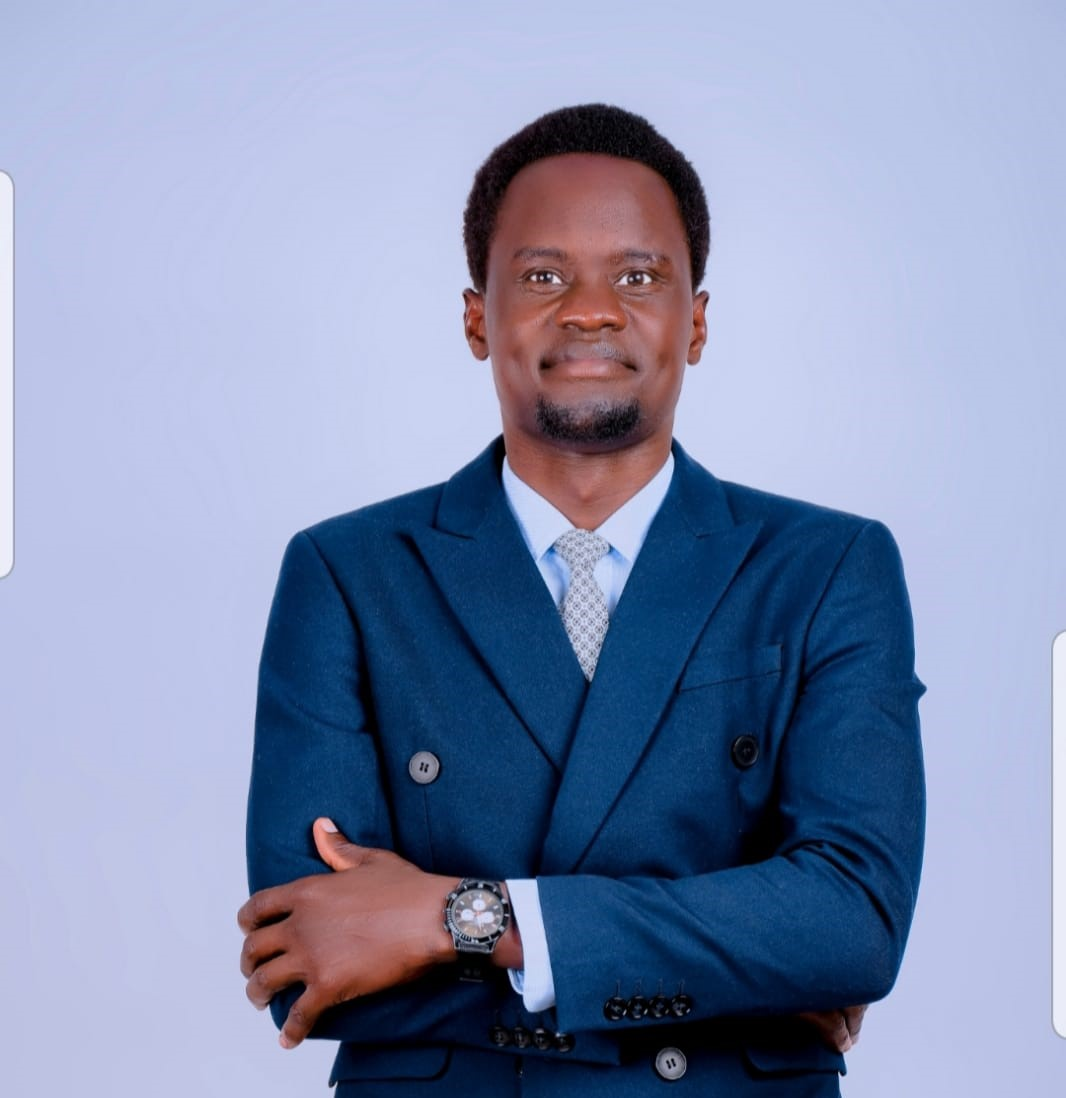
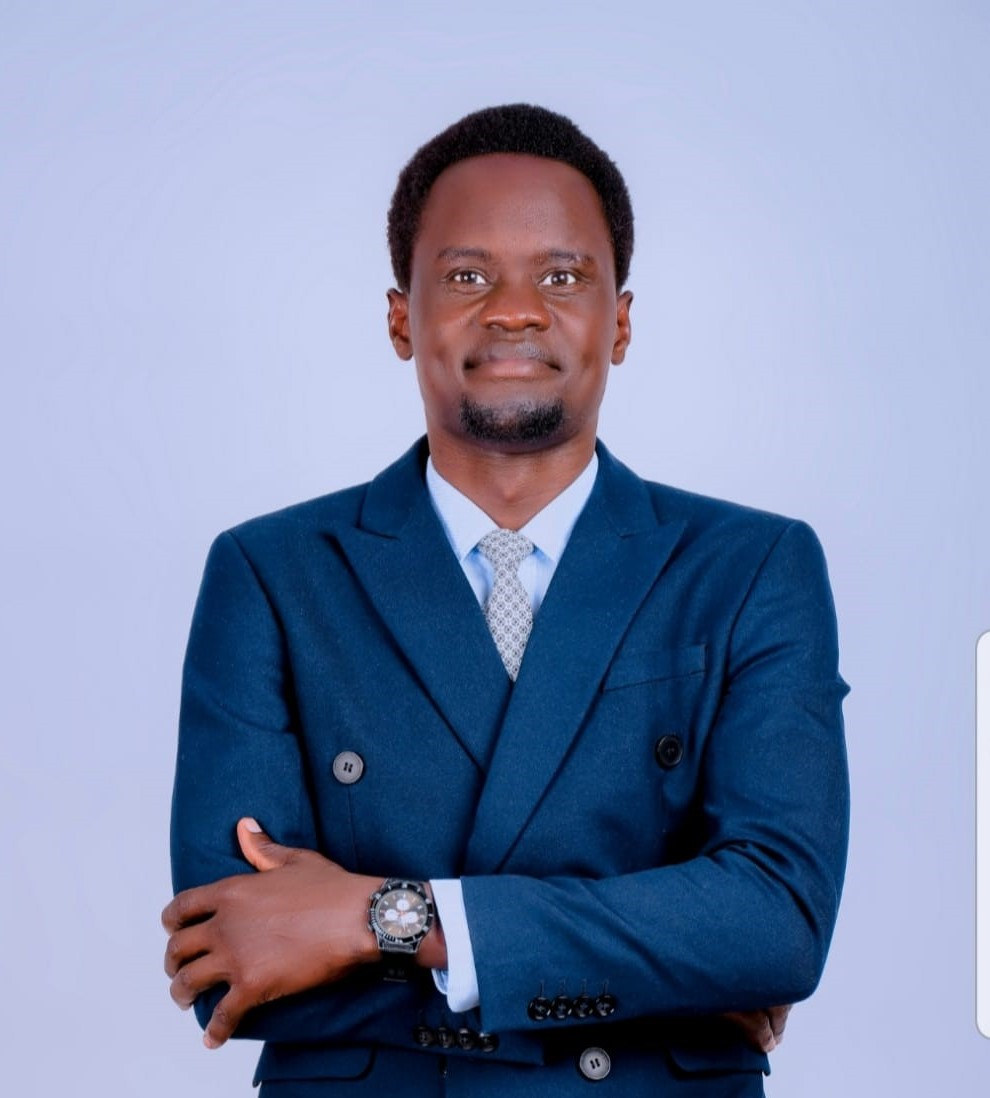
Add Amani Juma image to leader card in index.html; update image structure

Changed region(s): [[0.1515, 0.0929, 0.8788, 1.0], [0.0, 0.1548, 0.0303, 0.5264]]

diff --git a/index.html b/index.html
@@ -395,8 +395,12 @@
             </div>
             <div class="leader-card">
               <div class="leader-image">
-                <div class="placeholder-image icon-bg">
-                  <i class="fas fa-user" aria-hidden="true"></i>
+                <div class="placeholder-image">
+                  <img
+                    src="./assets/images/amani-juma.jpeg"
+                    alt="Amani Juma Thomas"
+                    class="leader-img"
+                  />
                 </div>
               </div>
               <h3>Deputy President</h3>
